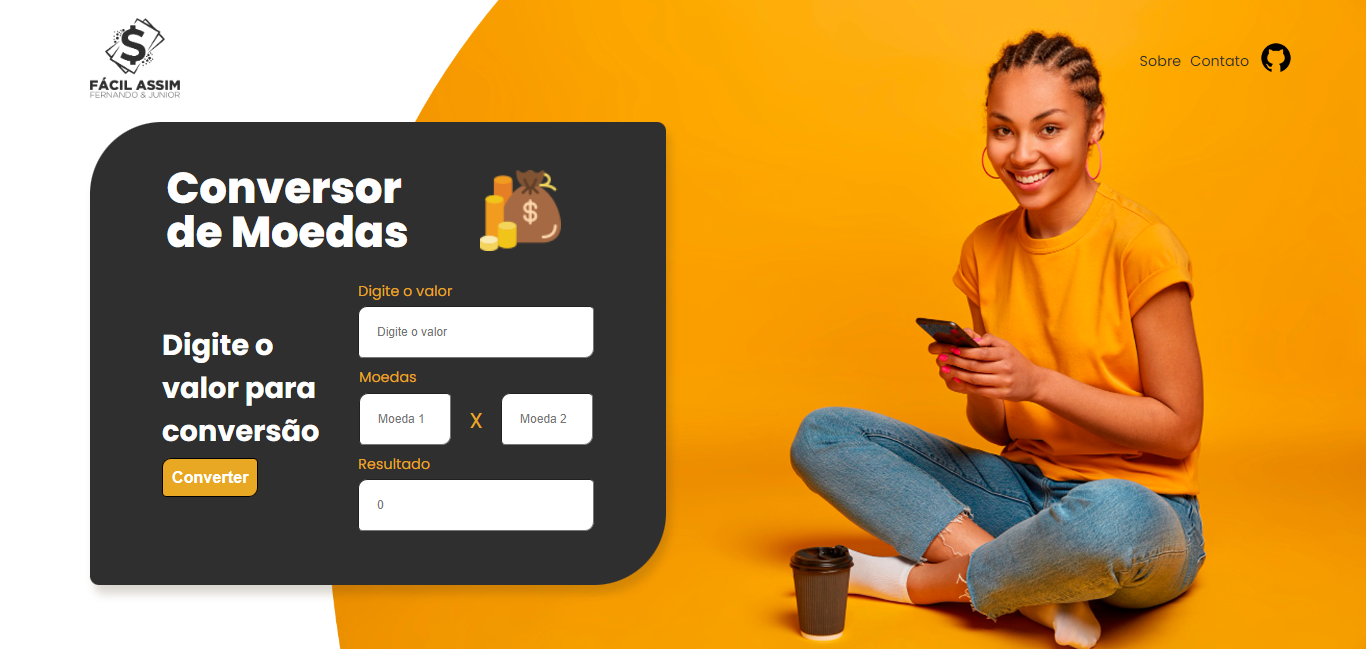
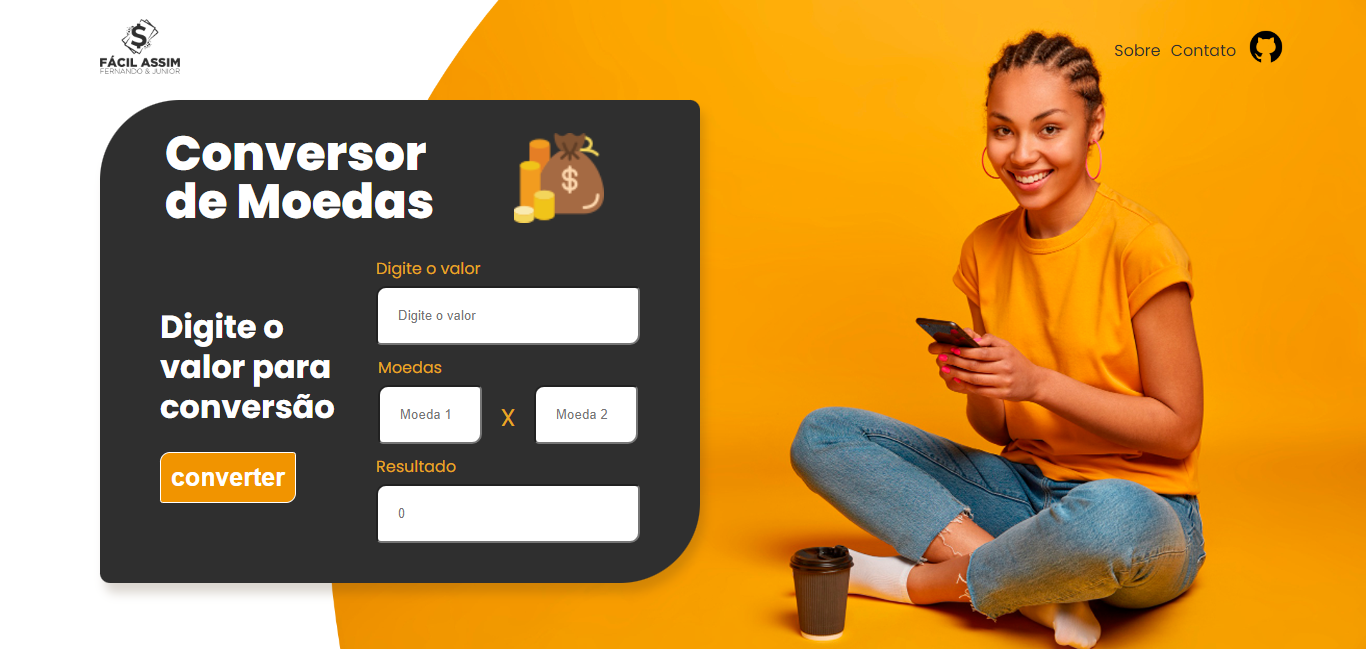
update

Changed region(s): [[0.0615, 0.0308, 0.5227, 0.9245], [0.7994, 0.0308, 0.9531, 0.1233]]

diff --git a/style.css b/style.css
@@ -89,12 +89,12 @@ main {
 }
 
 .digite-valor-para button {
-  background-color: #E8A824;
+  background-color: #F19400;
   color: #ffffff;
   font-size: 25px;
   font-weight: 600;
   padding: 10px;
-  border: none;
+  border: 1px solid #ffffff;
   border-radius: 10px 3px;
   margin-top: 25px;
 

diff --git a/responsivo.css b/responsivo.css
@@ -9,7 +9,7 @@
 @media  (min-width: 1600px ) {
     main {
         margin-left:200px ;
-        margin-top: 150px;
+        margin-top: 130px;
         transition-duration: 3s;
     }
 }
